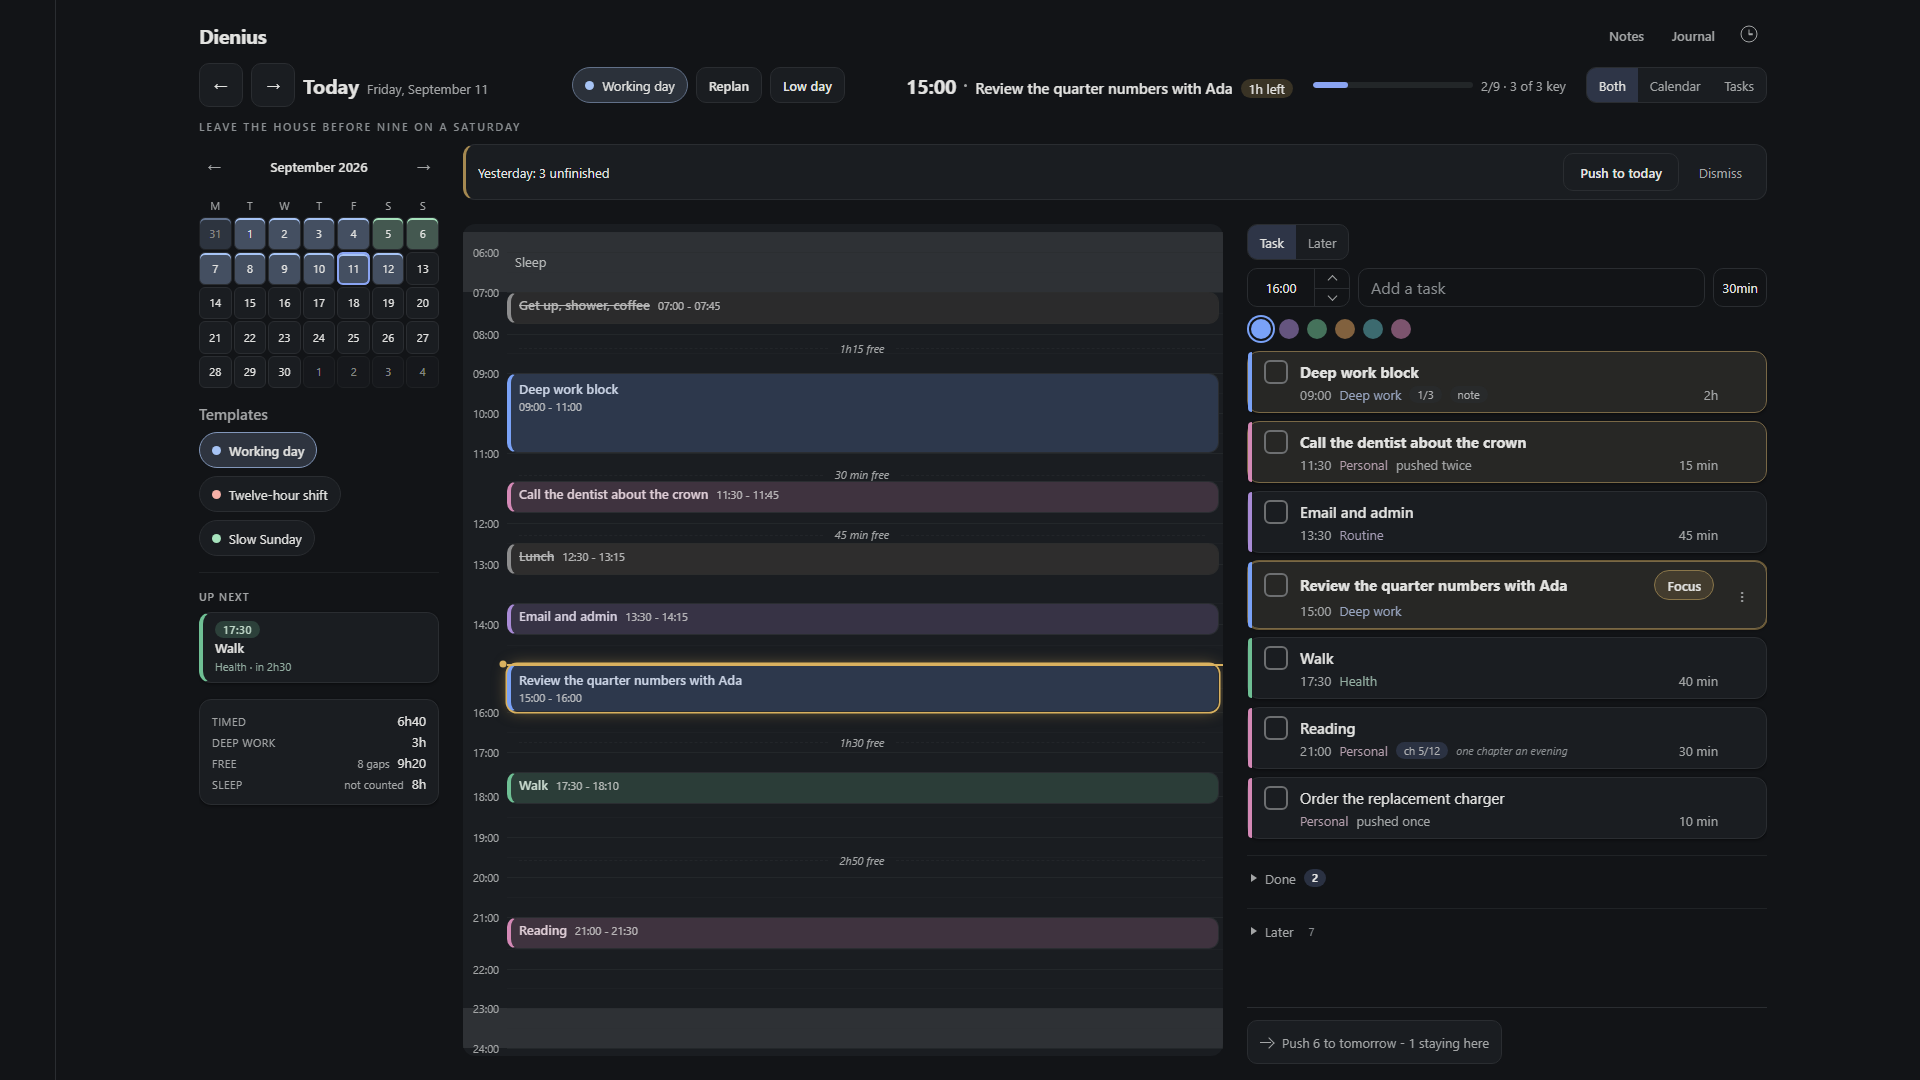
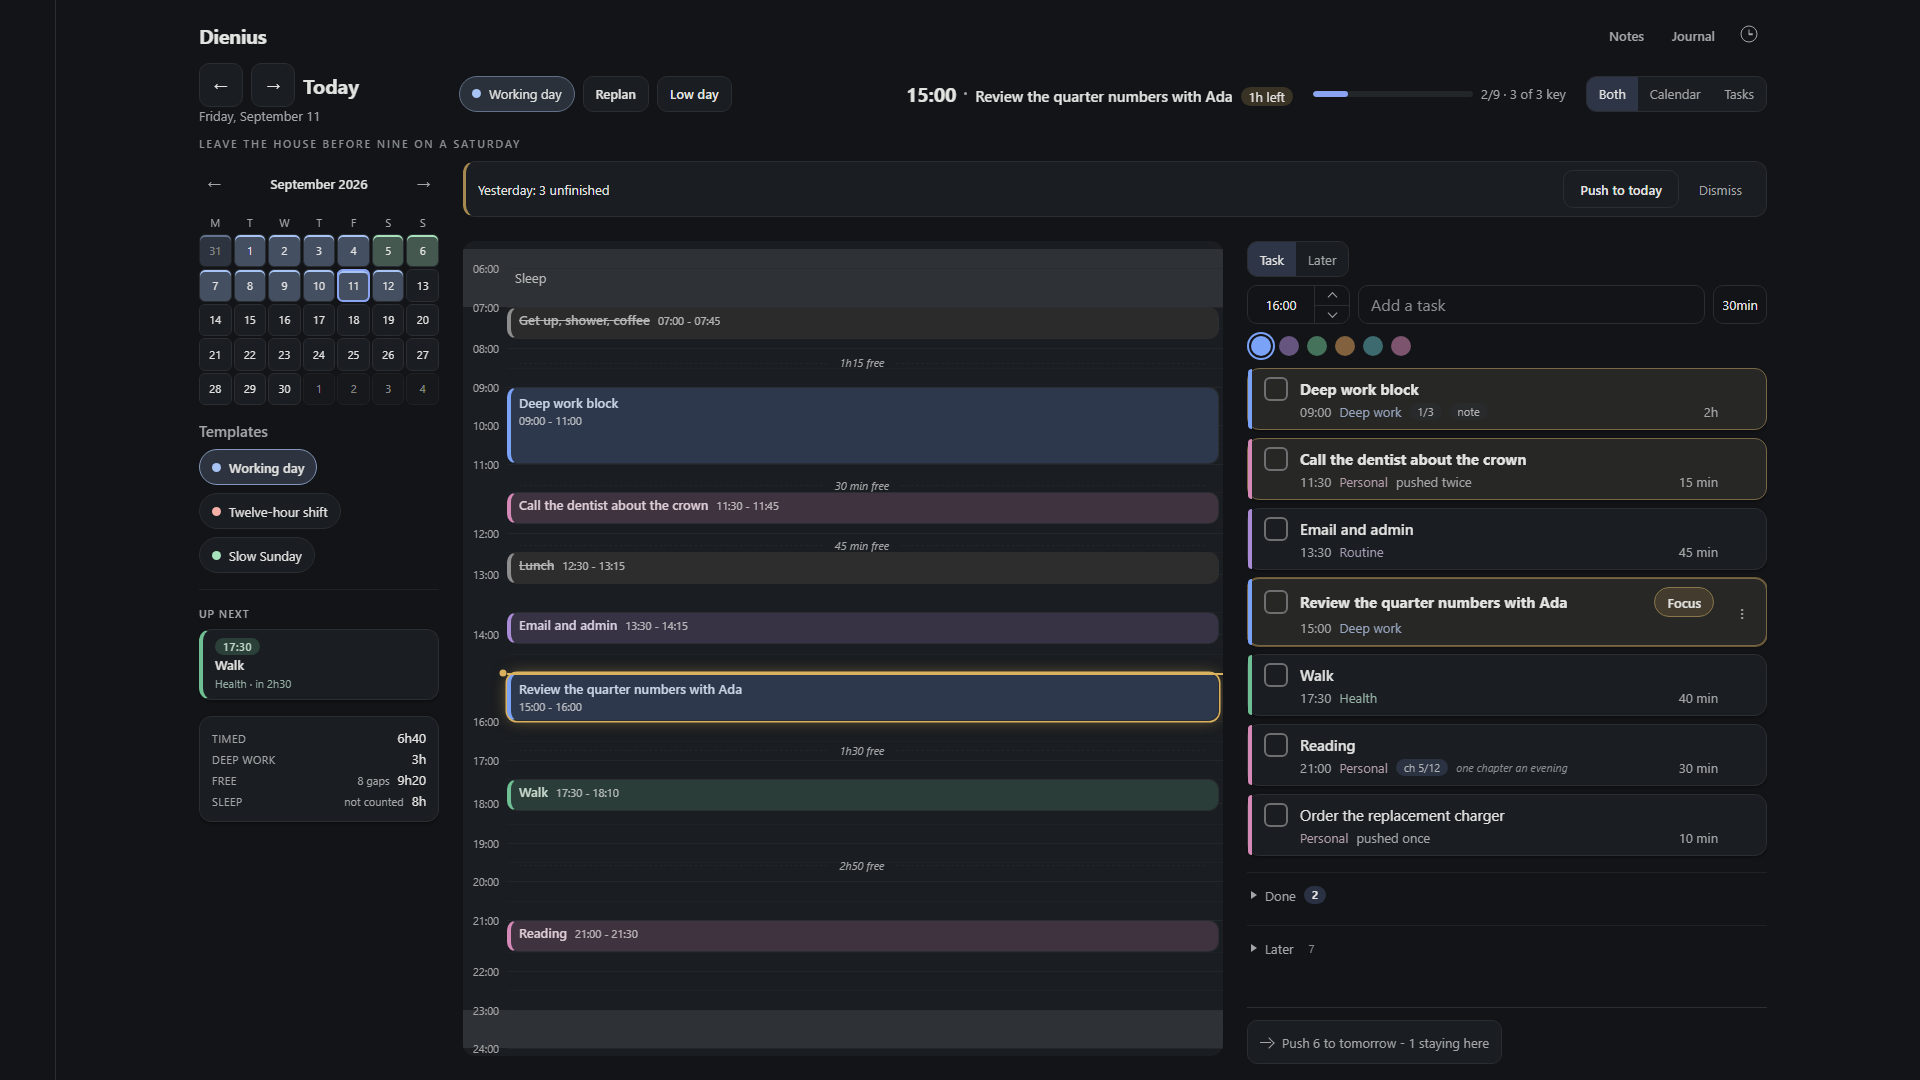
The audit's screenshots, retaken on the header it describes
Thirteen of the thirty-four show the day's header, which was rebuilt one
commit ago; a screenshot of a screen that no longer exists is worse than no
screenshot. The Today table's row for the date says what it says now, the
note at the top says when the pictures were taken, and the stylesheet's line
count is a round number rather than one that goes stale on the next edit.

diff --git a/docs/AUDIT-v2.9.md b/docs/AUDIT-v2.9.md
@@ -8,8 +8,10 @@ imperfect; what would be decided differently; the two pieces of work that are
 owed. **No recommendations anywhere in this file.** The decisions are the
 owner's.
 
-Written 2026-09-08 against `main` at v2.9. Nothing in this wave changed code:
-this file and its screenshots are the whole of it.
+Written 2026-09-08 against `main` at v2.9, and its screenshots retaken one
+commit later, when the day's header was rebuilt to the width of the month it
+stands over. Nothing in the audit itself changed code: this file and its
+screenshots are the whole of it.
 
 ---
 
@@ -38,8 +40,8 @@ timeline. Right: the task list.
 
 | Control | What it does |
 |---|---|
-| Previous day, Next day | Move a day. Arrow keys do the same; `T` returns to today. The pair sits at the row's left edge, inside the month below it |
-| The date, and Today | Says which day. Not a control |
+| Previous day, Next day | Move a day. Arrow keys do the same; `T` returns to today. The pair sits at the row's left edge, inside a block exactly the width of the month below it |
+| Today, or the weekday, and the date under it | Says which day. Not a control. Two lines because the whole form does not fit the month's width |
 | The template chip | Which template the day came from. Read, not pressed |
 | The template list, in the rail | Stamps one onto the day. The same template again says the day already has it; a different one asks before replacing, and blocks added by hand stay |
 | Replan | Three doors for a day that broke: something came up, shift the rest, away and back |
@@ -290,7 +292,7 @@ with their own visible edges, which is what an eye lines a card up by.
 33px, and a task's title is a 29px target. Both are written down in DECISIONS
 with the honest fix for each, should real hardware say otherwise.
 
-**`src/styles.css` is one file of 14,145 lines.** Every rule in the app is in
+**`src/styles.css` is one file of about fourteen thousand lines.** Every rule in the app is in
 it, in rough screen order, heavily commented. Nothing is scoped by tooling;
 the discipline is the naming and the comments.
 
